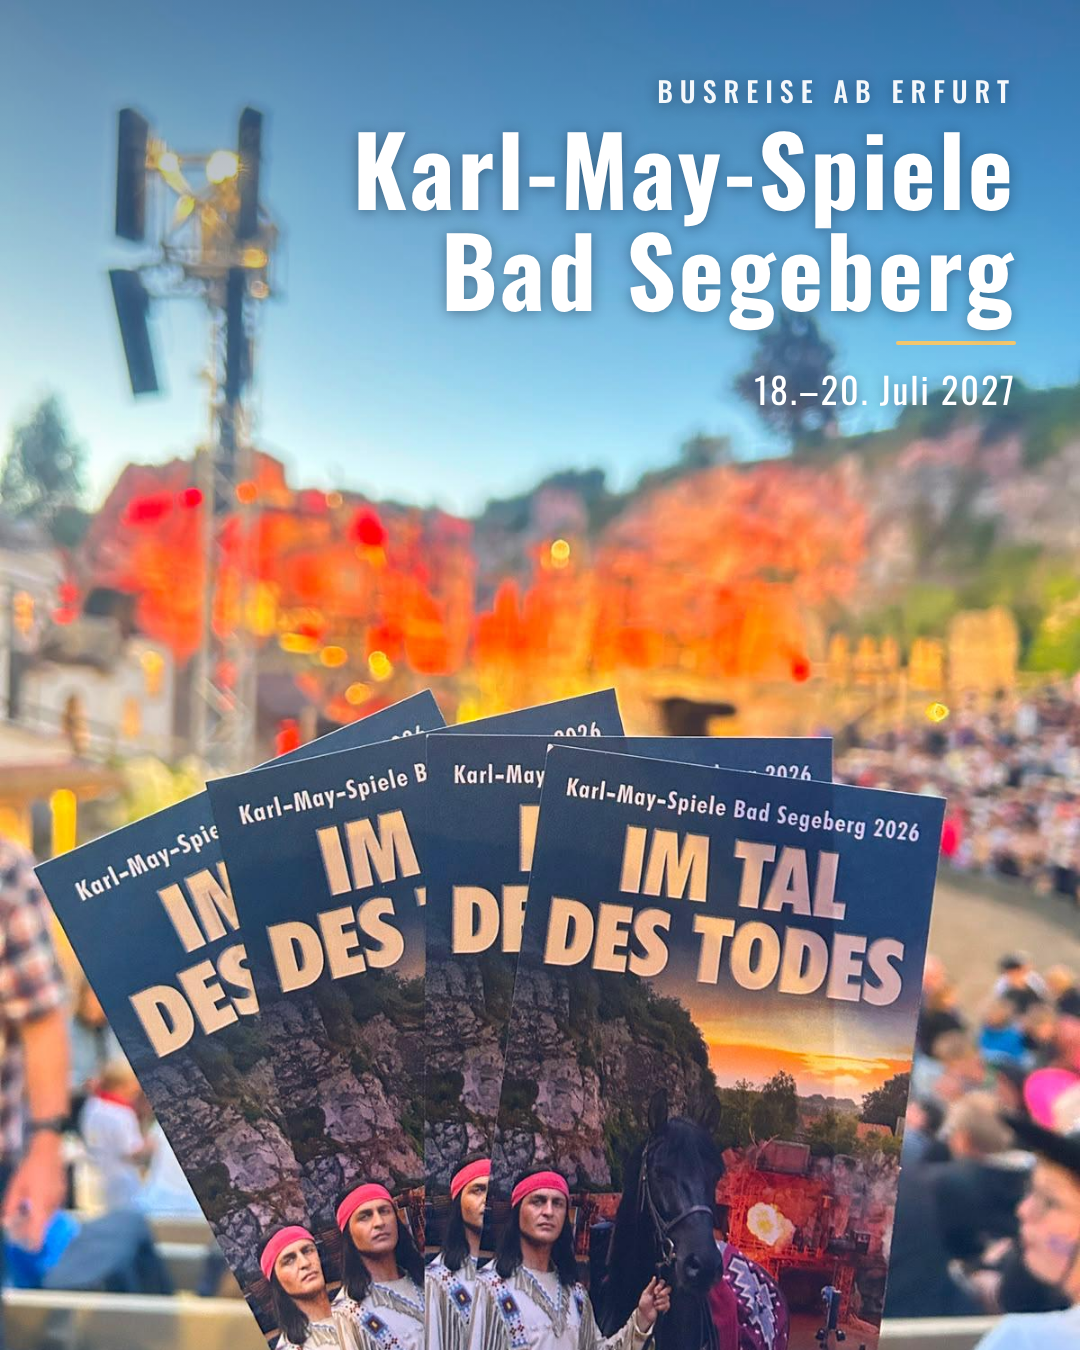
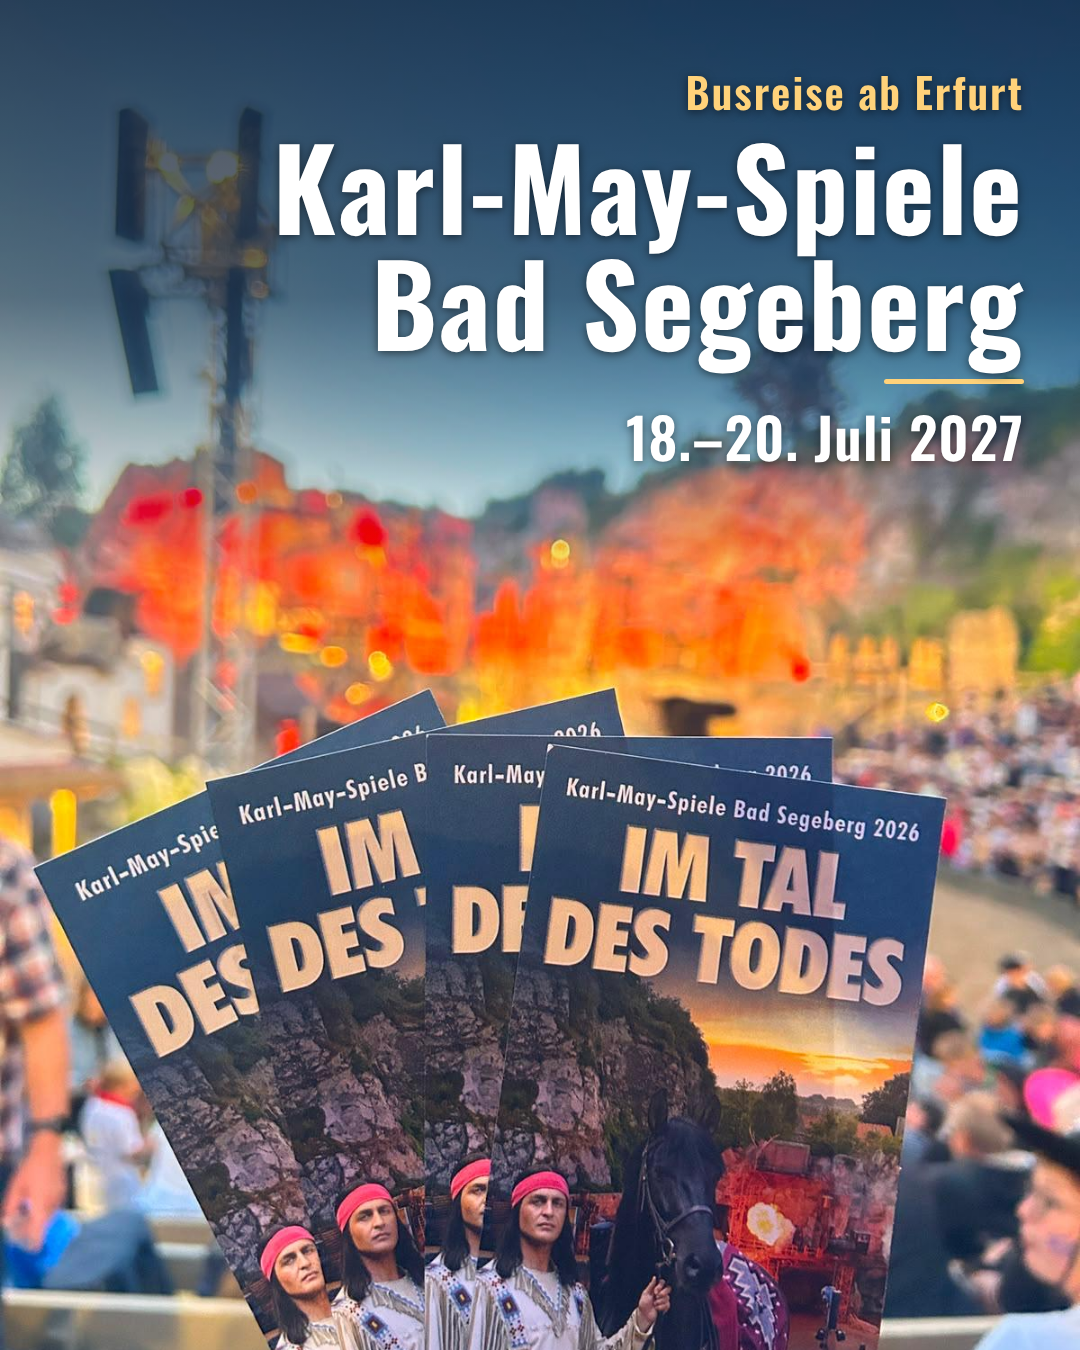
Karl-May flyer creative: larger, higher-contrast text for older audience
Claude-Session: https://claude.ai/code/session_01WaKFhgz8ZvCc2eJNCdq1KM

diff --git a/creatives/karl-may-flyer.html b/creatives/karl-may-flyer.html
@@ -1,16 +1,16 @@
 <!doctype html><html><head><meta charset="utf-8">
-<link href="https://fonts.googleapis.com/css2?family=Oswald:wght@400;500;700&display=swap" rel="stylesheet">
+<link href="https://fonts.googleapis.com/css2?family=Oswald:wght@600;700&display=swap" rel="stylesheet">
 <style>
 *{margin:0;padding:0;box-sizing:border-box}
 body{width:1080px;height:1350px;font-family:Oswald,sans-serif;color:#fff;overflow:hidden;background:#0f2238}
 .ad{position:relative;width:1080px;height:1350px}
 .bg{position:absolute;inset:0;width:1080px;height:1350px;object-fit:cover;object-position:50% 0%}
-.fade{position:absolute;inset:0;background:linear-gradient(180deg,rgba(10,28,52,.42) 0%,rgba(10,28,52,.12) 24%,rgba(10,28,52,0) 34%)}
-.top{position:absolute;top:70px;right:64px;text-align:right;text-shadow:0 2px 14px rgba(10,28,52,.45)}
-.kicker{font-weight:500;font-size:28px;letter-spacing:7px;text-transform:uppercase;opacity:.95}
-.title{font-weight:700;font-size:96px;line-height:1.05;letter-spacing:3px;margin-top:6px}
-.line{width:120px;height:4px;background:#F2C66D;margin:22px 0 20px auto;border-radius:2px}
-.info{font-weight:400;font-size:36px;letter-spacing:2px;line-height:1.35}
+.fade{position:absolute;inset:0;background:linear-gradient(180deg,rgba(8,22,42,.78) 0%,rgba(8,22,42,.6) 22%,rgba(8,22,42,.25) 34%,rgba(8,22,42,0) 42%)}
+.top{position:absolute;top:60px;right:56px;text-align:right;text-shadow:0 2px 10px rgba(0,0,0,.55)}
+.kicker{font-weight:600;font-size:42px;letter-spacing:2px;color:#FFD27A}
+.title{font-weight:700;font-size:112px;line-height:1.04;letter-spacing:2px;margin-top:4px}
+.line{width:140px;height:5px;background:#FFD27A;margin:20px 0 18px auto;border-radius:3px}
+.info{font-weight:600;font-size:56px;letter-spacing:1px;line-height:1.2}
 </style></head><body><div class="ad">
 <img class="bg" src="karl-may-flyer-bg.jpg"><div class="fade"></div>
 <div class="top">
